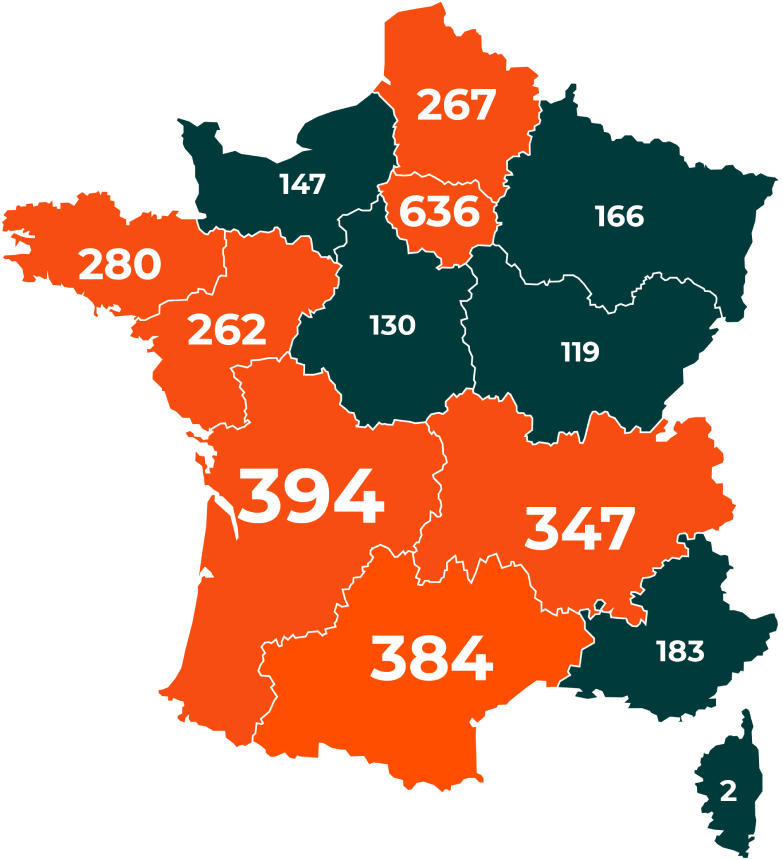
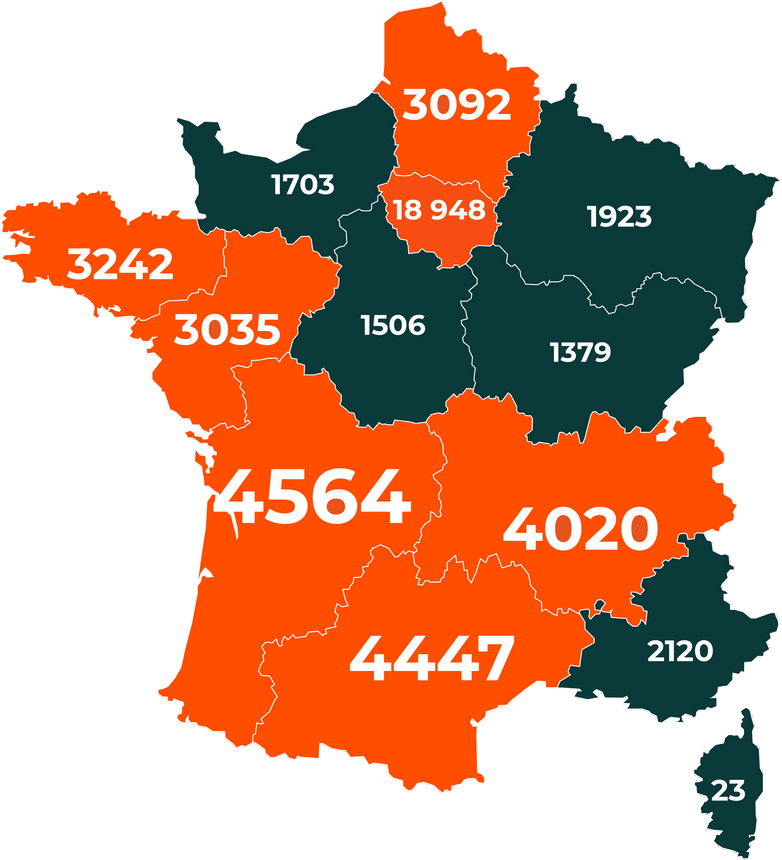
stats update + style center fixes stats box

diff --git a/landing/index.html b/landing/index.html
@@ -10,11 +10,11 @@
                 
         <meta charset="utf-8" />
         <base href=".">
-        <link rel="stylesheet" href="./src/style/style.css?v=1685395783153" />
+        <link rel="stylesheet" href="./src/style/style.css?v=1685446968775" />
         <!-- <link rel="stylesheet" href="./src/style/landing.css?v=2508222238" /> --->
-        <link rel="stylesheet" href="./src/style/style-mobile.css?v=1685395783153" media="screen and (max-width : 900px)" />
+        <link rel="stylesheet" href="./src/style/style-mobile.css?v=1685446968775" media="screen and (max-width : 900px)" />
         <!--<link rel="stylesheet" href="./src/style/landing-tinymobile.css?v=2508222238" media="screen and (max-width : 800px) and (max-height : 640px)" /> -->
-        <link rel="icon" type="image/png" href="./src/img/icon.png?v=1685395783153" />
+        <link rel="icon" type="image/png" href="./src/img/icon.png?v=1685446968775" />
         <meta name="viewport" content="width=device-width, initial-scale=1 user-scalable=0">
         <!-- For iOS Safari phone browser detection -->
         <meta name="format-detection" content="telephone=no">
@@ -51,7 +51,19 @@
             rel="stylesheet"
         />-->
 
-        <script src="./src/script/Landing.js?v=1685395783153"></script>
+        <script src="./src/script/Landing.js?v=1685446968775"></script>
+        
+        <style>
+            .special-1 {
+                display: none;
+            }
+
+            @media screen and (max-width : 900px) {
+                .special-1 {
+                    display: block;
+                }
+            }
+        </style>
     </head>
 
     <!--
@@ -159,21 +171,21 @@
                     <div class="left-box">
                         <div class="inline-box">
                             <div>
-                                <p class="h1-label mono">10</p>
+                                <p class="h1-label mono">15</p>
                                 <p class="h2-label">Chantiers</p>
                             </div>
                             <div class="data">
                                 <div>
-                                    <p class="h3-label">35</p>
-                                    <p class="h4-label">M3 de déchets</p>
+                                    <p class="h3-label">100</p>
+                                    <p class="h4-label">Tonnes de déchets</p>
                                 </div>
                                 <div>
-                                    <p class="h3-label">64%</p>
+                                    <p class="h3-label">75%</p>
                                     <p class="h4-label">Taux de réemploi</p>
                                 </div>
                                 <div>
-                                    <p class="h3-label">15 365</p>
-                                    <p class="h4bis-label">Kg de Co2 économisés</p>
+                                    <p class="h3-label">35 365</p>
+                                    <p class="h4bis-label">Kg de CO2 économisés</p>
                                 </div>
                             </div>
                         </div>
@@ -206,15 +218,15 @@
                             </div>
                             <div class="data">
                                 <div>
-                                    <p class="h3-label">39 805</p>
+                                    <p class="h3-label">90 000</p>
                                     <p class="h4-label">Kilos d'ordures</p>
                                 </div>
                                 <div>
-                                    <p class="h3-label">822</p>
+                                    <p class="h3-label">1 892</p>
                                     <p class="h4-label">Jours de chauffage</p>
                                 </div>
                                 <div>
-                                    <p class="h3-label">116 401 515</p>
+                                    <p class="h3-label">267 104 235</p>
                                     <p class="h4bis-label">Litres d'eau potable</p>
                                 </div>
                             </div>
@@ -222,7 +234,7 @@
                     </div>
 
                     <!--<a href="#" class="_btt _orange mob-only" style="margin-top: 50px;">Voir les chantiers</a>-->
-                    <p style="margin: 20px 0;">
+                    <p style="margin: 20px 0;" class="special-1">
                         <a href="https://datagir.ademe.fr/apps/impact-co2/" target="_blank" class="external-link mob-only">Calculé avec Datagir</a>
                     </p>
 
@@ -243,7 +255,7 @@
                         <div id="les-chiffres-map-txt">
                             <p class="">
                                 <span>Notre communauté compte déjà </span>
-                                <span class="h3-label" style="zoom: 0.8;">44<span style="font-size: 18px;"> </span>120</span>
+                                <span class="h3-label" style="zoom: 0.8;">50<span style="font-size: 18px;"> </span>002</span>
                                 <span> inscrits partout en France métropolitaine.</span>
                             </p>
                             <p class="">

diff --git a/landing/src/.html/index.html b/landing/src/.html/index.html
@@ -9,6 +9,18 @@
     <head>
         <<{__head.html}>>
         <script src="./src/script/Landing.js?v=$filetimestamp$"></script>
+        
+        <style>
+            .special-1 {
+                display: none;
+            }
+
+            @media screen and (max-width : 900px) {
+                .special-1 {
+                    display: block;
+                }
+            }
+        </style>
     </head>
 
     <!--
@@ -96,21 +108,21 @@
                     <div class="left-box">
                         <div class="inline-box">
                             <div>
-                                <p class="h1-label mono">10</p>
+                                <p class="h1-label mono">15</p>
                                 <p class="h2-label">Chantiers</p>
                             </div>
                             <div class="data">
                                 <div>
-                                    <p class="h3-label">35</p>
-                                    <p class="h4-label">M3 de déchets</p>
+                                    <p class="h3-label">100</p>
+                                    <p class="h4-label">Tonnes de déchets</p>
                                 </div>
                                 <div>
-                                    <p class="h3-label">64%</p>
+                                    <p class="h3-label">75%</p>
                                     <p class="h4-label">Taux de réemploi</p>
                                 </div>
                                 <div>
-                                    <p class="h3-label">15 365</p>
-                                    <p class="h4bis-label">Kg de Co2 économisés</p>
+                                    <p class="h3-label">35 365</p>
+                                    <p class="h4bis-label">Kg de CO2 économisés</p>
                                 </div>
                             </div>
                         </div>
@@ -143,15 +155,15 @@
                             </div>
                             <div class="data">
                                 <div>
-                                    <p class="h3-label">39 805</p>
+                                    <p class="h3-label">90 000</p>
                                     <p class="h4-label">Kilos d'ordures</p>
                                 </div>
                                 <div>
-                                    <p class="h3-label">822</p>
+                                    <p class="h3-label">1 892</p>
                                     <p class="h4-label">Jours de chauffage</p>
                                 </div>
                                 <div>
-                                    <p class="h3-label">116 401 515</p>
+                                    <p class="h3-label">267 104 235</p>
                                     <p class="h4bis-label">Litres d'eau potable</p>
                                 </div>
                             </div>
@@ -159,7 +171,7 @@
                     </div>
 
                     <!--<a href="#" class="_btt _orange mob-only" style="margin-top: 50px;">Voir les chantiers</a>-->
-                    <p style="margin: 20px 0;">
+                    <p style="margin: 20px 0;" class="special-1">
                         <a href="https://datagir.ademe.fr/apps/impact-co2/" target="_blank" class="external-link mob-only">Calculé avec Datagir</a>
                     </p>
 
@@ -180,7 +192,7 @@
                         <div id="les-chiffres-map-txt">
                             <p class="">
                                 <span>Notre communauté compte déjà </span>
-                                <span class="h3-label" style="zoom: 0.8;">44<span style="font-size: 18px;"> </span>120</span>
+                                <span class="h3-label" style="zoom: 0.8;">50<span style="font-size: 18px;"> </span>002</span>
                                 <span> inscrits partout en France métropolitaine.</span>
                             </p>
                             <p class="">
